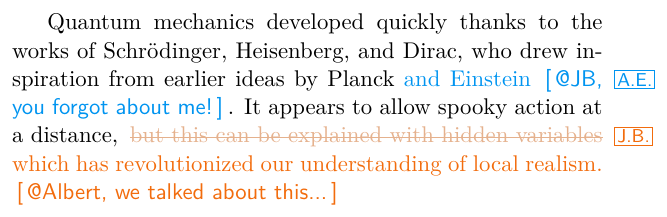
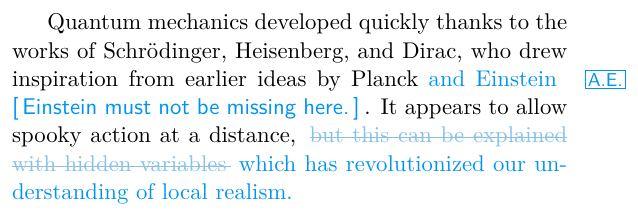
Change tracking: same sample text for every package, sources linked; phfcc in the TODO GADR

diff --git a/change-tracking/phfcc.tex b/change-tracking/phfcc.tex
@@ -1,5 +1,5 @@
-\documentclass[11pt]{article}\usepackage[paperwidth=12cm,paperheight=7cm,margin=1cm,marginparwidth=1.6cm,marginparsep=2mm]{geometry}\pagestyle{empty}\usepackage{lipsum}
-\usepackage{phfcc}\phfSetDefaultCommentingStyle{style=rmstrikethrough}\phfMakeCommentingCommand[initials={A.E.}]{AlE}\phfMakeCommentingCommand[initials={J.B.}]{JB}
+\documentclass[11pt]{article}\usepackage[paperwidth=14cm,paperheight=7cm,left=1cm,right=3.6cm,top=1cm,bottom=1cm,marginparwidth=2.6cm,marginparsep=3mm]{geometry}\pagestyle{empty}
+\usepackage{phfcc}\phfSetDefaultCommentingStyle{style=rmstrikethrough}\phfMakeCommentingCommand[initials={A.E.}]{AE}
 \begin{document}
-Quantum mechanics developed quickly thanks to the works of Schr\"odinger, Heisenberg, and Dirac, who drew inspiration from earlier ideas by Planck \AlE{and Einstein} \AlE[@JB, you forgot about me!]. It appears to allow spooky action at a distance, \JB*{but this can be explained with hidden variables}\JB{which has revolutionized our understanding of local realism.} \JB[@Albert, we talked about this...]
+Quantum mechanics developed quickly thanks to the works of Schr\"odinger, Heisenberg, and Dirac, who drew inspiration from earlier ideas by Planck \AE{and Einstein} \AE[Einstein must not be missing here.]. It appears to allow spooky action at a distance, \AE*{but this can be explained with hidden variables} \AE{which has revolutionized our understanding of local realism.}
 \end{document}

diff --git a/change-tracking/changes.tex b/change-tracking/changes.tex
@@ -1,5 +1,5 @@
-\documentclass[11pt]{article}\usepackage[paperwidth=14cm,paperheight=7cm,left=1cm,right=3.6cm,top=1cm,bottom=1cm,marginparwidth=2.6cm,marginparsep=3mm]{geometry}\pagestyle{empty}\usepackage{lipsum}
+\documentclass[11pt]{article}\usepackage[paperwidth=14cm,paperheight=7cm,left=1cm,right=3.6cm,top=1cm,bottom=1cm,marginparwidth=2.6cm,marginparsep=3mm]{geometry}\pagestyle{empty}
 \usepackage[authormarkup=superscript]{changes}\definechangesauthor[name={Albert Einstein},color=blue]{AE}
 \begin{document}
-Quantum mechanics developed quickly thanks to the works of Schr\"odinger, Heisenberg, and Dirac, who drew inspiration from earlier ideas by Planck \added[id=AE]{and Einstein}. It appears to allow spooky action at a distance, \deleted[id=AE]{but this can be explained with hidden variables} \replaced[id=AE]{which has revolutionized}{which changed} our understanding of local realism.\comment[id=AE]{We talked about this.}
+Quantum mechanics developed quickly thanks to the works of Schr\"odinger, Heisenberg, and Dirac, who drew inspiration from earlier ideas by Planck \added[id=AE]{and Einstein}\comment[id=AE]{Einstein must not be missing here.}. It appears to allow spooky action at a distance, \deleted[id=AE]{but this can be explained with hidden variables} \added[id=AE]{which has revolutionized our understanding of local realism.}
 \end{document}

diff --git a/change-tracking/todonotes.tex b/change-tracking/todonotes.tex
@@ -1,0 +1,5 @@
+\documentclass[11pt]{article}\usepackage[paperwidth=14cm,paperheight=7cm,left=1cm,right=3.6cm,top=1cm,bottom=1cm,marginparwidth=2.6cm,marginparsep=3mm]{geometry}\pagestyle{empty}
+\usepackage{xcolor}\usepackage[normalem]{ulem}\usepackage{todonotes}
+\begin{document}
+Quantum mechanics developed quickly thanks to the works of Schr\"odinger, Heisenberg, and Dirac, who drew inspiration from earlier ideas by Planck \textcolor{blue}{and Einstein}\todo{Einstein must not be missing here.}. It appears to allow spooky action at a distance, \textcolor{blue}{\sout{but this can be explained with hidden variables}} \textcolor{blue}{which has revolutionized our understanding of local realism.}
+\end{document}

diff --git a/todo-package/phfcc.tex b/todo-package/phfcc.tex
@@ -1,0 +1,5 @@
+\documentclass[11pt]{article}\usepackage[paperwidth=14cm,paperheight=7cm,left=1cm,right=3.6cm,top=1cm,bottom=1cm,marginparwidth=2.6cm,marginparsep=3mm]{geometry}\pagestyle{empty}
+\usepackage{phfcc}\phfMakeCommentingCommand[initials={A.E.}]{AE}
+\begin{document}
+The phfcc package sets an inline comment\AE[Check this claim.] in the author's color, with the initials in the margin; the same command also marks additions and removals.
+\end{document}

diff --git a/todo-package.md b/todo-package.md
@@ -10,6 +10,7 @@ How to mark TODO in LaTeX documents?
 - [todonotes](https://ctan.org/pkg/todonotes)
 - [pdfcomment](https://ctan.org/pkg/pdfcomment)
 - [pdfmarginpar](https://ctan.org/pkg/pdfmarginpar)
+- [phfcc](https://ctan.org/pkg/phfcc)
 
 Sources and images are in [todo-package/](todo-package/).
 
@@ -19,6 +20,8 @@ Sources and images are in [todo-package/](todo-package/).
 
 ![todonotes](todo-package/todonotes.png)
 
+Source: [todonotes.tex](todo-package/todonotes.tex)
+
 - Good, because `\todo{...}`, `\missingfigure` and `\listoftodos` give in-text, in-margin and listed TODOs with no PDF-reader dependency.
 - Good, because it is widely used and simple to set up.
 - Bad, because notes are typeset into the page — they take space and can shift the layout, unlike PDF annotations.
@@ -26,6 +29,8 @@ Sources and images are in [todo-package/](todo-package/).
 ### pdfcomment
 
 ![pdfcomment](todo-package/pdfcomment.png)
+
+Source: [pdfcomment.tex](todo-package/pdfcomment.tex)
 
 Needs some configuration:
 
@@ -41,6 +46,8 @@ Needs some configuration:
 
 ![pdfmarginpar](todo-package/pdfmarginpar.png)
 
+Source: [pdfmarginpar.tex](todo-package/pdfmarginpar.tex)
+
 - Good, because uses PDF features
 - Bad, because development stopped.
   Reasons were:
@@ -48,3 +55,14 @@ Needs some configuration:
   b) ideas were incorporated at pdfcomment
 - Bad, because highlighting of words is not supported
 - Bad, because uses GPL as license
+
+### phfcc
+
+![phfcc](todo-package/phfcc.png)
+
+Source: [phfcc.tex](todo-package/phfcc.tex)
+
+- Good, because `\AE[comment]` is a TODO in the author's color with the initials in the margin, and the same command marks additions and removals (see [How to track changes by several authors](change-tracking.md)).
+- Good, because `\phfDisableCommentingCommands` hides all comments for the final version.
+- Bad, because comments are typeset into the text and take space, like todonotes' inline notes; the `footcomments` style moves them into footnotes.
+- Bad, because there is no list of all comments.

diff --git a/change-tracking.md b/change-tracking.md
@@ -13,13 +13,15 @@ Sources and images are in [change-tracking/](change-tracking/).
 - [changes](https://ctan.org/pkg/changes)
 - [todonotes](https://ctan.org/pkg/todonotes)
 - [latexdiff](https://ctan.org/pkg/latexdiff)
-- [trackchanges](https://ctan.org/pkg/trackchanges)
+- [trackchanges](https://trackchanges.sourceforge.net/) (not on CTAN)
 
 ## Pros and Cons of the Options
 
 ### phfcc
 
 ![phfcc](change-tracking/phfcc.png)
+
+Source: [phfcc.tex](change-tracking/phfcc.tex)
 
 - Good, because one command per author covers everything: `\AlE{added}`, `\AlE*{removed}`, `\AlE[comment]`, `\AlE!{important}`.
 - Good, because the initials are set once per page in the margin, so the text is not cluttered.
@@ -31,12 +33,18 @@ Sources and images are in [change-tracking/](change-tracking/).
 
 ![changes](change-tracking/changes.png)
 
+Source: [changes.tex](change-tracking/changes.tex)
+
 - Good, because `\added`, `\deleted`, `\replaced`, `\highlight` and `\comment` are explicit, and `\listofchanges` lists them.
 - Good, because the `final` option removes all marks and a script (`pyMergeChanges.py`) applies them to the source.
 - Bad, because every mark carries the author as `[id=...]` and a superscript marker, which clutters the text.
 - Bad, because `\comment` clashes with other packages that define `\comment` (verbatim, mindflow).
 
 ### todonotes
+
+![todonotes](change-tracking/todonotes.png)
+
+Source: [todonotes.tex](change-tracking/todonotes.tex)
 
 - Good, because it is already there for TODOs.
 - Bad, because it only places notes; additions and removals have to be marked by hand.
@@ -48,4 +56,4 @@ Sources and images are in [change-tracking/](change-tracking/).
 
 ### trackchanges
 
-- Bad, because it is not part of TeX Live.
+- Bad, because it is not on CTAN and not part of TeX Live; the last release is from 2009.
